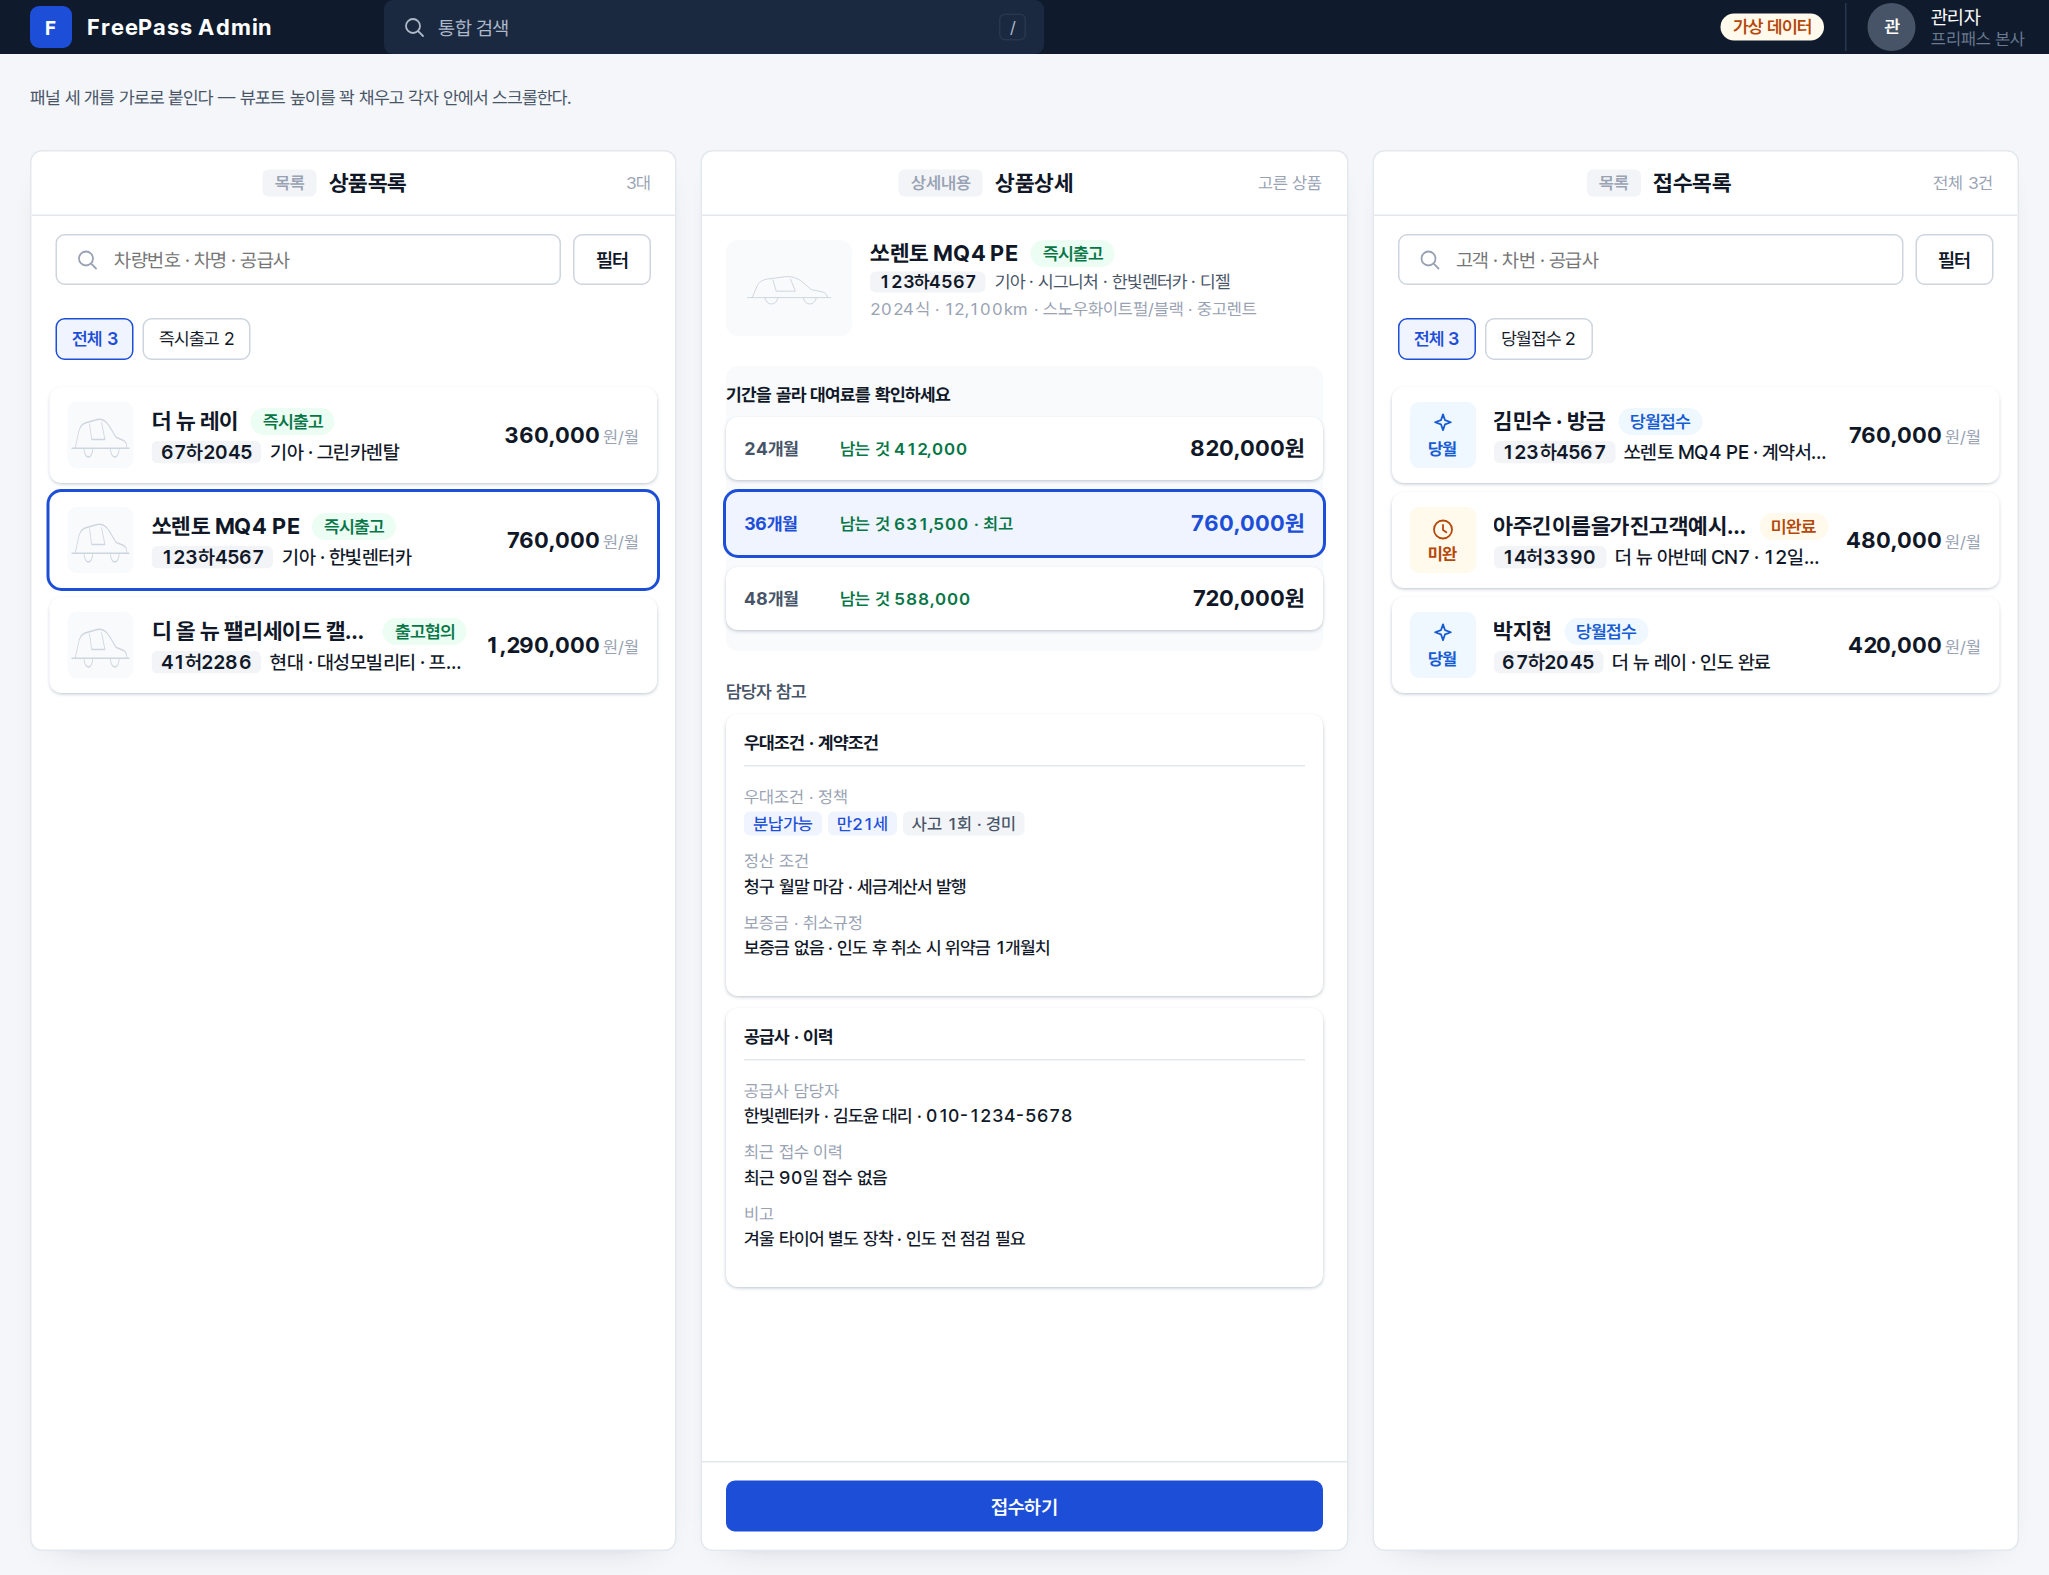
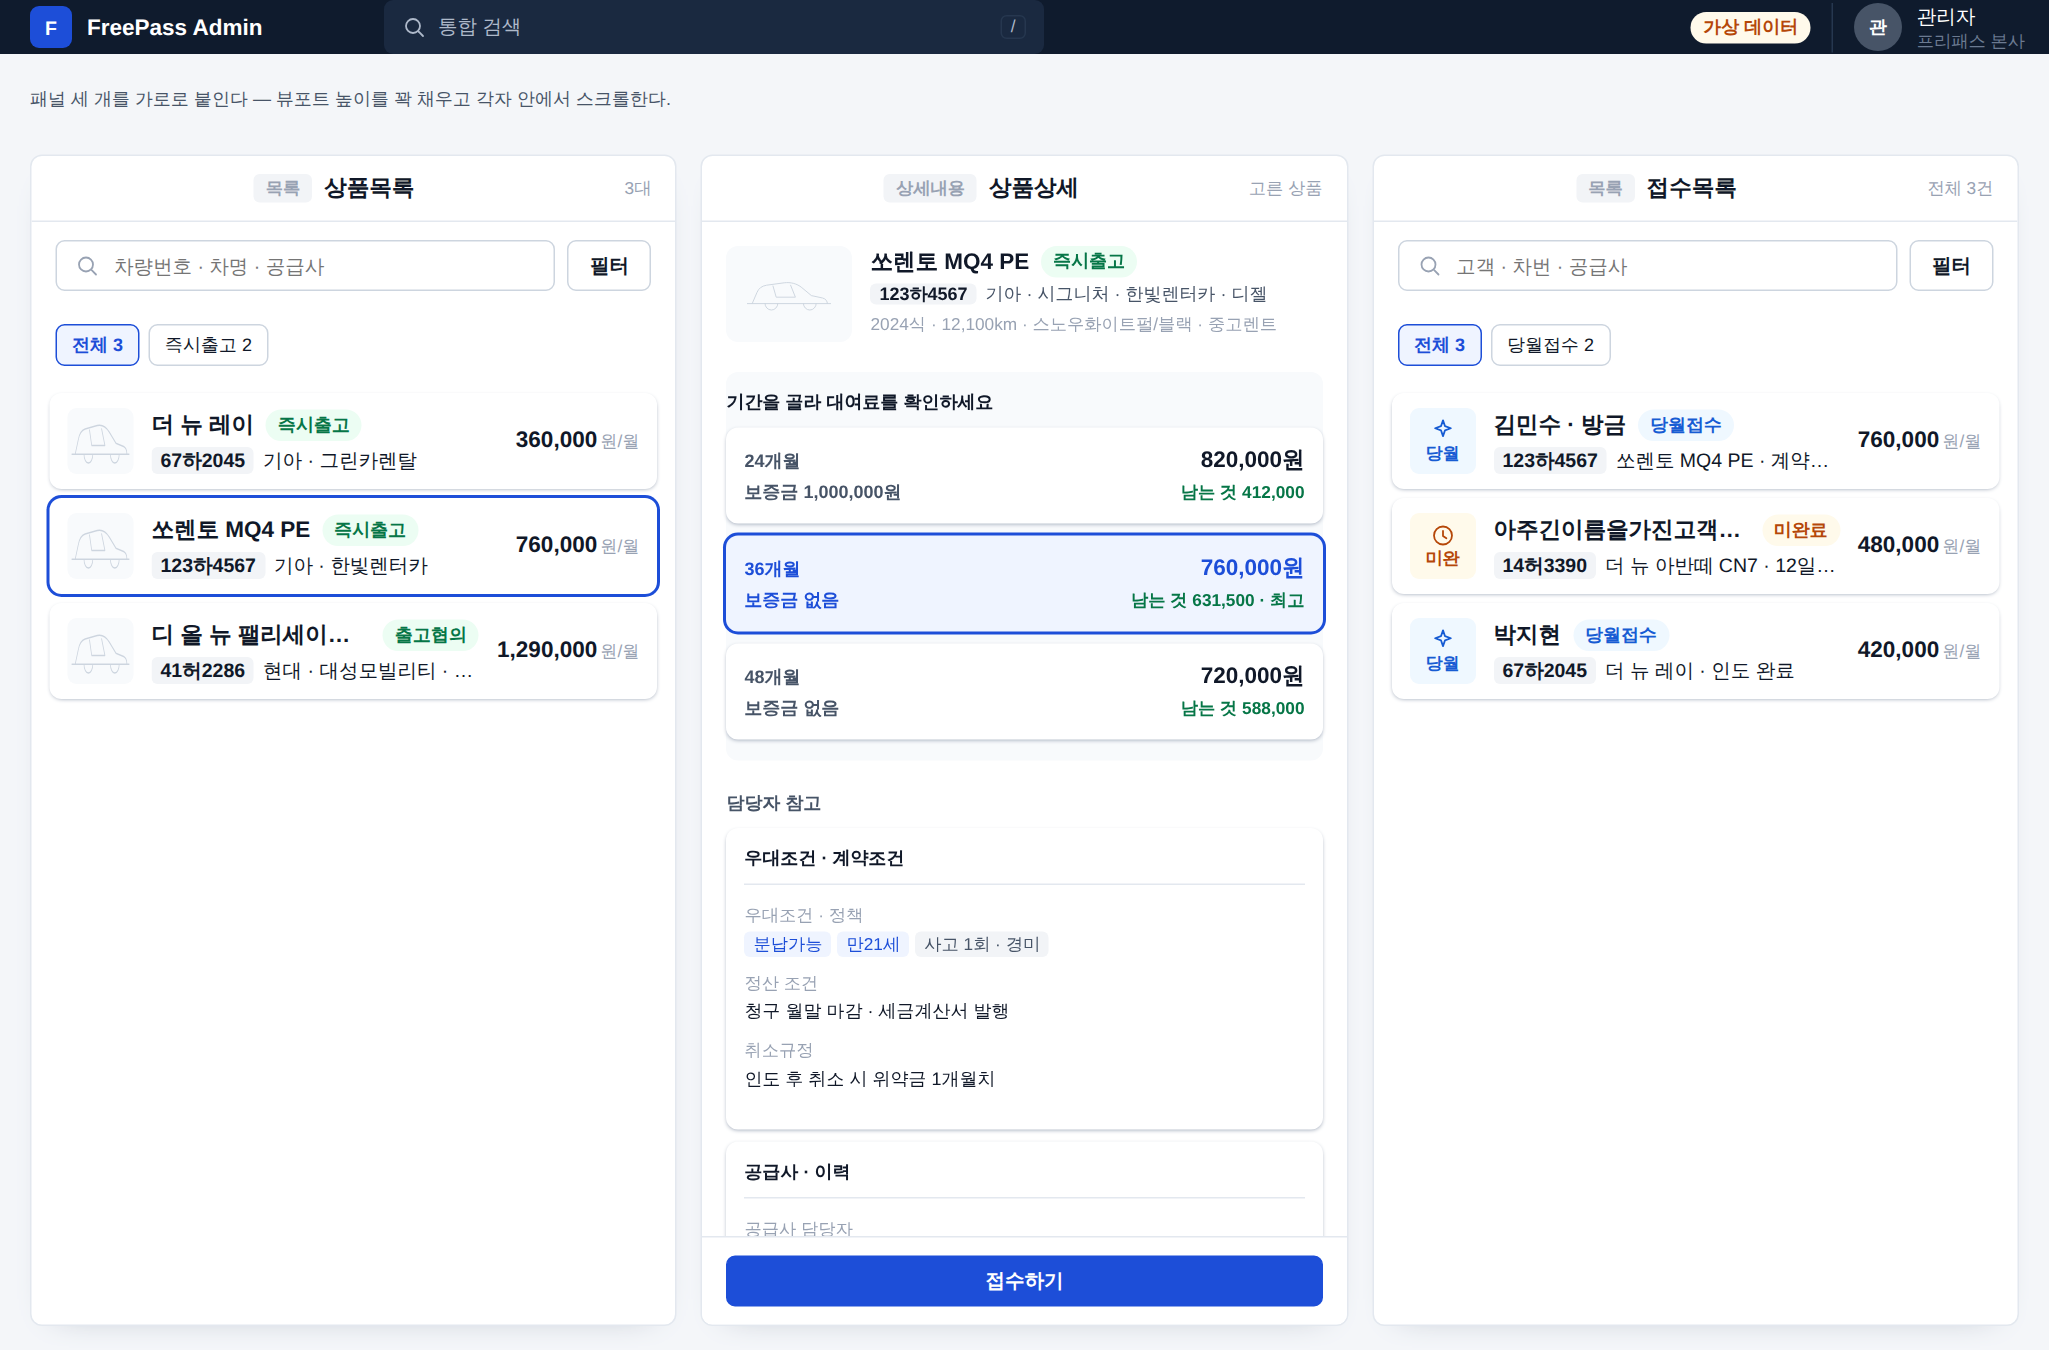
상세내용 대여료 카드에 보증금을 핵심 정보로 추가
대표 2026-09-24: "이게 대여료만 이렇게 강조하는 게 아니야 대여료만 강조하는 게
아니고 기간 대여료 보증금이 가장 핵심 정보지 우리 대여에서는"

sv-term 카드를 1행(기간·대여료) + 2행(보증금)으로 바꿔 보증금을 기간과 같은
무게로 보여주고, 담당자만 보는 "남는 것" 마진은 작은 캡션으로 낮췄다. 담당자
참고 카드의 "보증금·취소규정"은 "취소규정"으로 줄여 중복을 없앴다.

Claude-Session: https://claude.ai/code/session_01VHqvSXhUy82o1cFFrYMP3F

diff --git a/design/erp-standard/reference/side-by-side.css b/design/erp-standard/reference/side-by-side.css
@@ -48,12 +48,18 @@ body.ref-page { margin: 0; padding: 0; height: 100vh; display: flex; flex-direct
  * 좋겠다」) — sv-term 은 옅은 sunken 배경 판 위에 옅은 그림자로 떠 보이고, sv-ref-card 는 배경색이
  * 패널과 같아 그림자만으로 뜬다(마치 종이가 겹쳐 있는 느낌). 골랐을 때(aria-pressed)만 Primary 색
  * 그림자 테로 구분한다 — 그때도 border 가 아니라 box-shadow 다. */
-.sv-term { display: grid; grid-template-columns: 54px minmax(0, 1fr) auto; align-items: center; gap: 4px 10px; padding: var(--erp-sp-3); border: 0; border-radius: var(--erp-r-lg); background: var(--erp-color-surface); box-shadow: 0 1px 3px -1px var(--erp-color-text-3); }
-.sv-term b { font-weight: var(--erp-fw-bold); color: var(--erp-color-text-2); font-size: var(--erp-fs-label); }
-.sv-term span { color: var(--erp-color-ok); font-size: var(--erp-fs-caption); font-weight: var(--erp-fw-semibold); }
-.sv-term strong { font-size: var(--erp-fs-section); font-weight: var(--erp-fw-bold); color: var(--erp-color-text); }
+/* 핵심 정보는 기간 · 대여료 · 보증금 셋이다(대표 2026-09-24 「대여료만 강조하는 게 아니고 기간 대여료
+ * 보증금이 가장 핵심 정보지 우리 대여에서는」) — 1행에 기간 · 대여료, 2행에 보증금을 같은 무게로 둔다.
+ * 「남는 것」은 담당자만 보는 참고 수치라 핵심 정보 옆에 작은 캡션으로만 남긴다. */
+.sv-term { display: flex; flex-direction: column; gap: 4px; padding: var(--erp-sp-3); border: 0; border-radius: var(--erp-r-lg); background: var(--erp-color-surface); box-shadow: 0 1px 3px -1px var(--erp-color-text-3); }
+.sv-term-main { display: flex; align-items: baseline; justify-content: space-between; gap: 10px; }
+.sv-term-sub { display: flex; align-items: baseline; justify-content: space-between; gap: 10px; }
+.sv-term-main b { font-weight: var(--erp-fw-bold); color: var(--erp-color-text-2); font-size: var(--erp-fs-label); }
+.sv-term-main strong { font-size: var(--erp-fs-section); font-weight: var(--erp-fw-bold); color: var(--erp-color-text); }
+.sv-term-deposit { color: var(--erp-color-text-2); font-size: var(--erp-fs-label); font-weight: var(--erp-fw-semibold); }
+.sv-term-margin { color: var(--erp-color-ok); font-size: var(--erp-fs-caption); font-weight: var(--erp-fw-semibold); }
 .sv-term[aria-pressed="true"] { background: var(--erp-color-primary-weak); box-shadow: 0 0 0 2px var(--erp-color-primary); }
-.sv-term[aria-pressed="true"] b, .sv-term[aria-pressed="true"] strong { color: var(--erp-color-primary); }
+.sv-term[aria-pressed="true"] .sv-term-main b, .sv-term[aria-pressed="true"] .sv-term-main strong, .sv-term[aria-pressed="true"] .sv-term-deposit { color: var(--erp-color-primary); }
 
 /* ③ 담당자 참고 — 설명하는 카드, 섹션별로 크게 */
 .sv-ref-list { display: flex; flex-direction: column; gap: var(--erp-sp-2); }

diff --git a/design/erp-standard/reference/side-by-side.html b/design/erp-standard/reference/side-by-side.html
@@ -66,9 +66,18 @@
         <div class="sv-terms-main">
           <p class="sv-section-title sv-section-title--main">기간을 골라 대여료를 확인하세요</p>
           <div class="sv-terms">
-            <div class="sv-term" aria-pressed="false"><b>24개월</b><span>남는 것 412,000</span><strong>820,000원</strong></div>
-            <div class="sv-term" aria-pressed="true"><b>36개월</b><span>남는 것 631,500 · 최고</span><strong>760,000원</strong></div>
-            <div class="sv-term" aria-pressed="false"><b>48개월</b><span>남는 것 588,000</span><strong>720,000원</strong></div>
+            <div class="sv-term" aria-pressed="false">
+              <div class="sv-term-main"><b>24개월</b><strong>820,000원</strong></div>
+              <div class="sv-term-sub"><span class="sv-term-deposit">보증금 1,000,000원</span><span class="sv-term-margin">남는 것 412,000</span></div>
+            </div>
+            <div class="sv-term" aria-pressed="true">
+              <div class="sv-term-main"><b>36개월</b><strong>760,000원</strong></div>
+              <div class="sv-term-sub"><span class="sv-term-deposit">보증금 없음</span><span class="sv-term-margin">남는 것 631,500 · 최고</span></div>
+            </div>
+            <div class="sv-term" aria-pressed="false">
+              <div class="sv-term-main"><b>48개월</b><strong>720,000원</strong></div>
+              <div class="sv-term-sub"><span class="sv-term-deposit">보증금 없음</span><span class="sv-term-margin">남는 것 588,000</span></div>
+            </div>
           </div>
         </div>
 
@@ -85,7 +94,7 @@
               <dl>
                 <div><dt>우대조건 · 정책</dt><dd><span class="erp-tags"><span class="erp-tag erp-tag--primary">분납가능</span><span class="erp-tag erp-tag--primary">만21세</span><span class="erp-tag">사고 1회 · 경미</span></span></dd></div>
                 <div><dt>정산 조건</dt><dd>청구 월말 마감 · 세금계산서 발행</dd></div>
-                <div><dt>보증금 · 취소규정</dt><dd>보증금 없음 · 인도 후 취소 시 위약금 1개월치</dd></div>
+                <div><dt>취소규정</dt><dd>인도 후 취소 시 위약금 1개월치</dd></div>
               </dl>
             </div>
             <div class="sv-ref-card">
